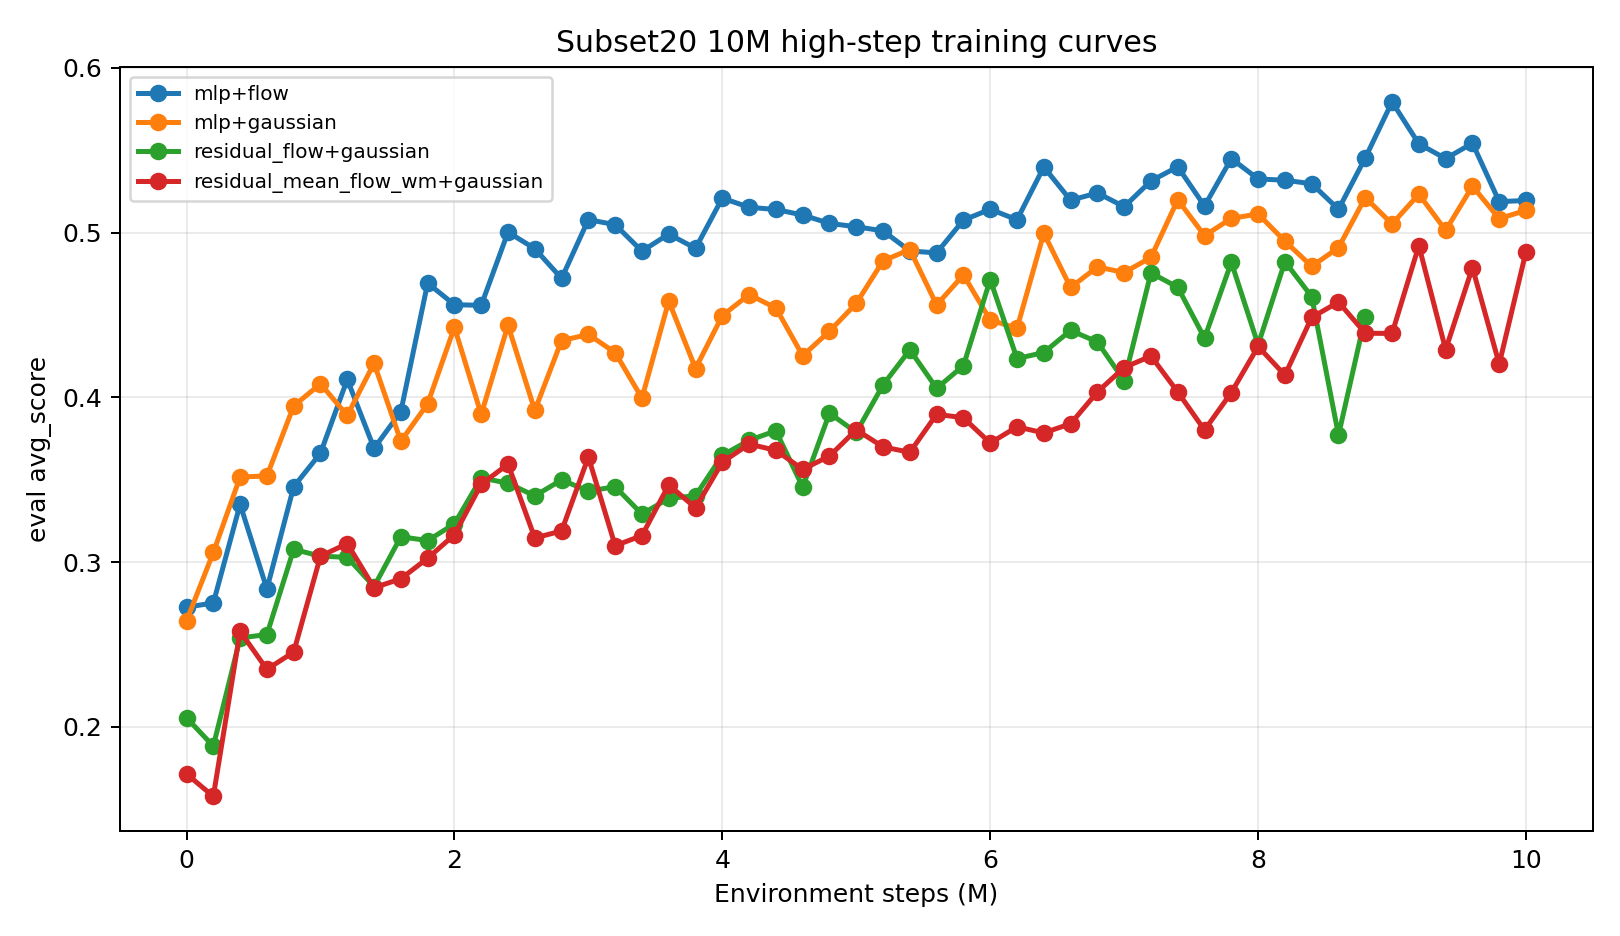
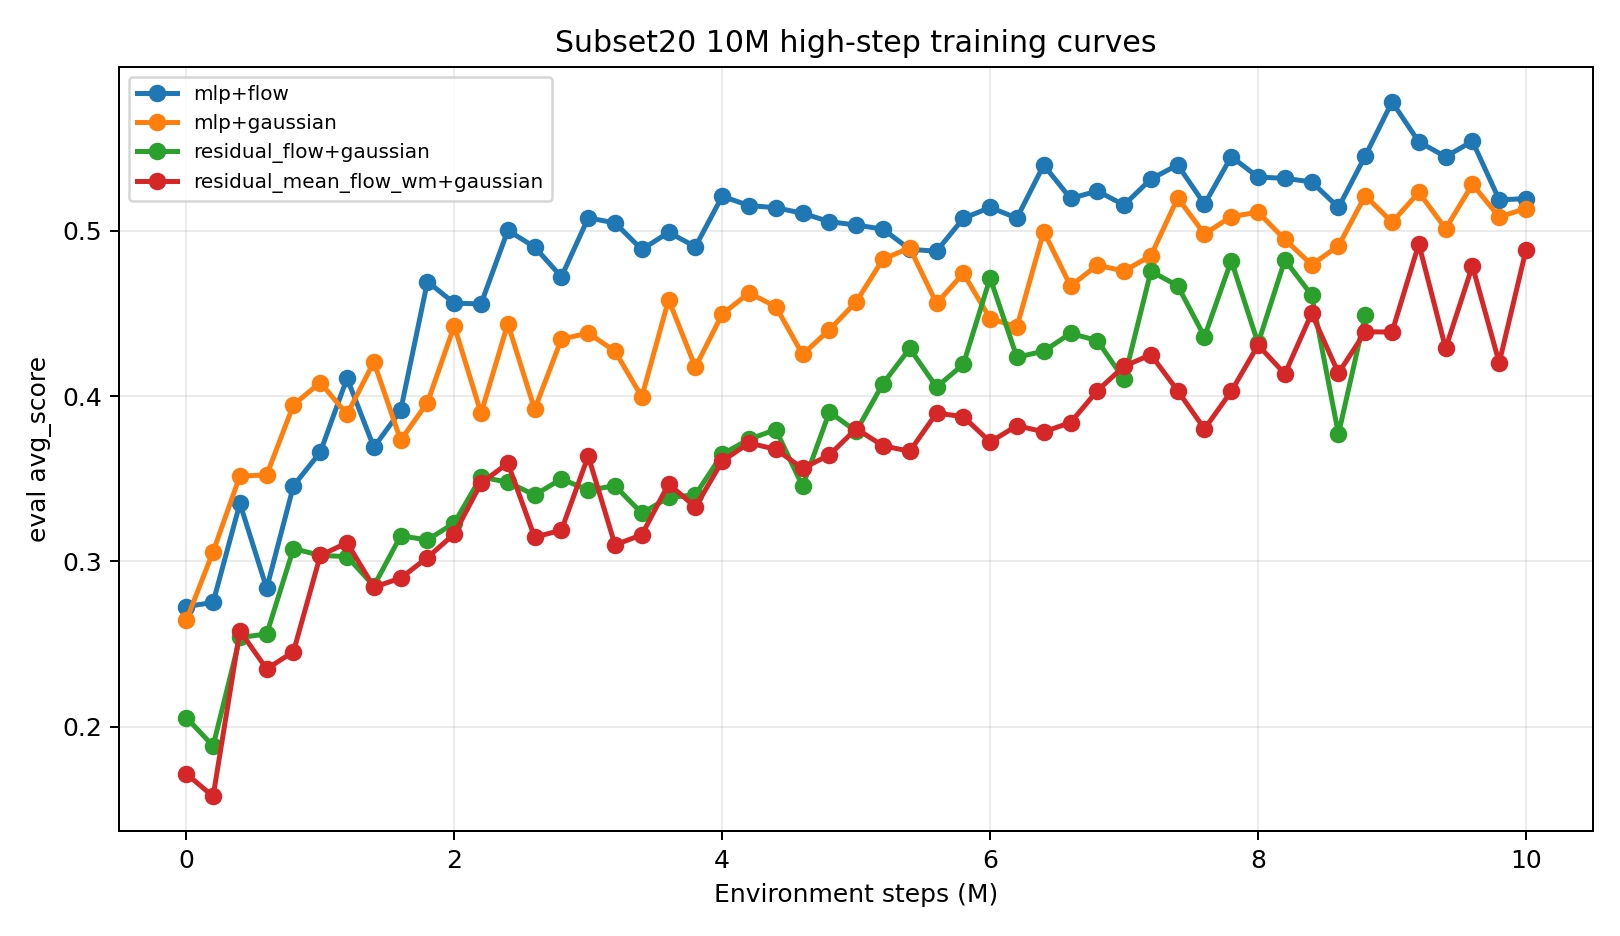
Add residual flow to subset40 curves

diff --git a/scripts/generate_ablation_insights.py b/scripts/generate_ablation_insights.py
@@ -362,6 +362,8 @@ def main() -> None:
 	for run in subset40_train:
 		if run["family"] == "subset40_2x2":
 			curve_groups_40[f"{run['wm']}+{run['policy']}"].append(run)
+		if run["family"] == "subset40_wmvar" and run["wm"] == "residual_flow" and run["policy"] == "gaussian":
+			curve_groups_40["residual_flow+gaussian"].append(run)
 	plot_curves(curve_groups_40, out_dir / "subset40_2x2_training_curves.png", "Subset40 5M training curves by architecture")
 
 	keep20 = {

diff --git a/docs/experiment_results_summary.md b/docs/experiment_results_summary.md
@@ -65,7 +65,7 @@ Metric: `avg_score`, the Newt/MMBench normalized score averaged over evaluated t
 | Subset20 10M high-step | 20 | 10M target + 50k demo | MLP | flow | H100 | complete | 10.0M | 0.50044 | Reached 10M; peak observed eval was 0.58825 at 4.0M. |
 | Subset20 10M high-step | 20 | 10M target + 50k demo | MLP | flow | H200 | complete | 10.0M | 0.53852 | Reached 10M; peak observed eval was 0.58663 at 8.8M. |
 | Subset20 10M high-step | 20 | 10M target + 50k demo | MLP | Gaussian | A100 | complete | 10.0M | 0.53570 | Completed 10M; peak observed eval was 0.56490 at 9.4M. |
-| Subset20 10M high-step | 20 | 10M target + 50k demo | MLP | flow | A100 | resubmitted | 9.0M | 0.60928 | Best subset20 MLP+flow snapshot so far; preempted and resubmitted as `9820443_[1]`. |
+| Subset20 10M high-step | 20 | 10M target + 50k demo | MLP | flow | A100 | resubmitted | 9.0M | 0.60544 | Best subset20 MLP+flow snapshot so far; preempted and resubmitted as `9820443_[1]`. |
 | Subset20 10M high-step | 20 | 10M target + 50k demo | residual_flow | Gaussian | L40S | resubmitted | 6.6M | 0.43467 | Preempted again and resubmitted as `9820444_[2]`; peak observed eval was 0.44826 at 5.6M. |
 | Subset20 10M high-step | 20 | 10M target + 50k demo | residual_mean_flow_wm | Gaussian | A100 | resubmitted | 8.4M | 0.46637 | Preempted and resubmitted as `9820443_[3]`; peak observed eval was 0.48471 at 7.2M. |
 | Subset20 10M high-step | 20 | 10M target + 50k demo | residual_mean_flow_wm | Gaussian | H200 | running | 8.2M | 0.41040 | Active as `9813253_3`; peak observed eval was 0.46176 at 8.0M. |
@@ -81,6 +81,6 @@ Current read:
 - Best completed flow-WM result is `residual_flow + Gaussian` on L40S/A100: `0.25576` / `0.25500`.
 - New residual variants (`shortcut`, `residual_mean`, `ot_cfm`) did not beat plain `residual_flow` on completed subset40 evals.
 - The subset20 high-step direction is much stronger overall, with completed 10M rows for H100/L40S `MLP + Gaussian` and H100 `residual_mean_flow_wm + Gaussian`; these are still not directly comparable to official 200-task results.
-- Current subset20 ranking still favors MLP WM. A100 `MLP + flow` reached the best peak so far, 0.60928 at 9.0M, but completed MLP+flow finals are lower.
+- Current subset20 ranking still favors MLP WM. A100 `MLP + flow` reached the best peak so far, 0.60544 at 9.0M, but completed MLP+flow finals are lower.
 - The strongest completed original-style baseline remains `MLP + Gaussian`, with H100 0.53816 and A100 0.53570 at 10M; H200 reached 10M at 0.49223.
 - H100 `residual_flow + Gaussian` remains the strongest flow-WM signal by peak at 0.51065, but its latest score regressed to 0.44898 by 8.8M and it remains slower.

diff --git a/docs/ablation_insights_summary.md b/docs/ablation_insights_summary.md
@@ -20,7 +20,7 @@ Important caveat: `mean +/- std` below is over completed local runs across GPU/r
 | Official TD-MPC2 single-task | 200 | 1B total across 200 single-task agents | MLP WM | Gaussian + MPC | 1B | 0.800 | n/a | Upper reference, not a multitask agent. |
 | Our subset40 best completed 2x2 | 40 | 5M + 50k demo | MLP WM | Flow policy | 5M | 0.321 +/- 0.012 | 0.339 | Mean +/- std over 4 completed runs; best single run 0.339. Best completed 2x2 architecture. |
 | Our subset40 best flow-WM | 40 | 5M + 50k demo | Residual_flow WM | Gaussian | 5M | 0.232 +/- 0.027 | 0.256 | Mean +/- std over 4 completed runs; best single run 0.256. Best flow-WM variant, still below MLP WM. |
-| Our subset20 strongest signal | 20 | 10M target + 50k demo | MLP WM | Flow policy | 8.8M-10.0M current | 0.467-0.609 | 0.609 | Best peak architecture signal; A100 reached 0.609 at 9.0M, while completed H100/H200 finals are lower. |
+| Our subset20 strongest signal | 20 | 10M target + 50k demo | MLP WM | Flow policy | 8.8M-10.0M current | 0.467-0.605 | 0.605 | Best peak architecture signal; A100 reached 0.605 at 9.0M, while completed H100/H200 finals are lower. |
 | Our subset20 promising flow-WM | 20 | 10M target + 50k demo | Residual_flow WM | Gaussian | 6.4M-8.8M current | 0.431-0.449 | 0.511 | H100 residual_flow peak is still the strongest flow-WM signal, but latest scores regressed and remain below MLP-WM peak. |
 
 ## Architecture Ablation
@@ -45,6 +45,8 @@ The heatmap above is the literal original 2x2 with pure `flow` WM. The table use
 Training curves:
 
 ![Subset40 2x2 training curves](assets/ablation_insights_20260610/subset40_2x2_training_curves.png)
+
+This curve plot includes the literal 2x2 cells plus `residual_flow + Gaussian` as the best Flow-WM reference line.
 
 Conclusion:
 

diff --git a/docs/subset20_high_steps_plan.md b/docs/subset20_high_steps_plan.md
@@ -758,7 +758,7 @@ Latest highest-step eval snapshot:
 | H200 `mlp + flow` | 10.0M | 10.0M | 0.53852 | 0.58663 | complete |
 | H100 `mlp + flow` | 10.0M | 10.0M | 0.50044 | 0.58825 | complete |
 | L40S `mlp + gaussian` | 10.0M | 10.0M | 0.48801 | 0.55139 | complete |
-| A100 `mlp + flow` | 9.04M | 9.0M | 0.60928 | 0.60928 | resubmitted |
+| A100 `mlp + flow` | 9.04M | 9.0M | 0.60544 | 0.60544 | resubmitted |
 | H200 `mlp + gaussian` | 9.98M | 9.8M | 0.47736 | 0.53666 | running |
 | L40S `mlp + flow` | 8.90M | 8.8M | 0.46663 | 0.55132 | resubmitted |
 | H100 `residual_flow + gaussian` | 8.90M | 8.8M | 0.44898 | 0.51065 | resubmitted |
@@ -771,7 +771,7 @@ Latest highest-step eval snapshot:
 
 Current read:
 
-- A100 `mlp + flow` produced the best peak seen so far: `0.60928` at 9.0M. It was preempted before 10M and has been resubmitted.
+- A100 `mlp + flow` produced the best peak seen so far: `0.60544` at 9.0M. It was preempted before 10M and has been resubmitted.
 - Flow-WM progress is mixed. H100 `residual_flow` still has the best flow-WM peak, `0.51065`, but its latest eval regressed to `0.44898` by 8.8M.
 - Completed MLP baselines remain more reliable than flow-WM cells. H100/A100 `mlp + gaussian` both finish around `0.536-0.538`; H200/H100 completed `mlp + flow` finals are lower than their peaks.
 
